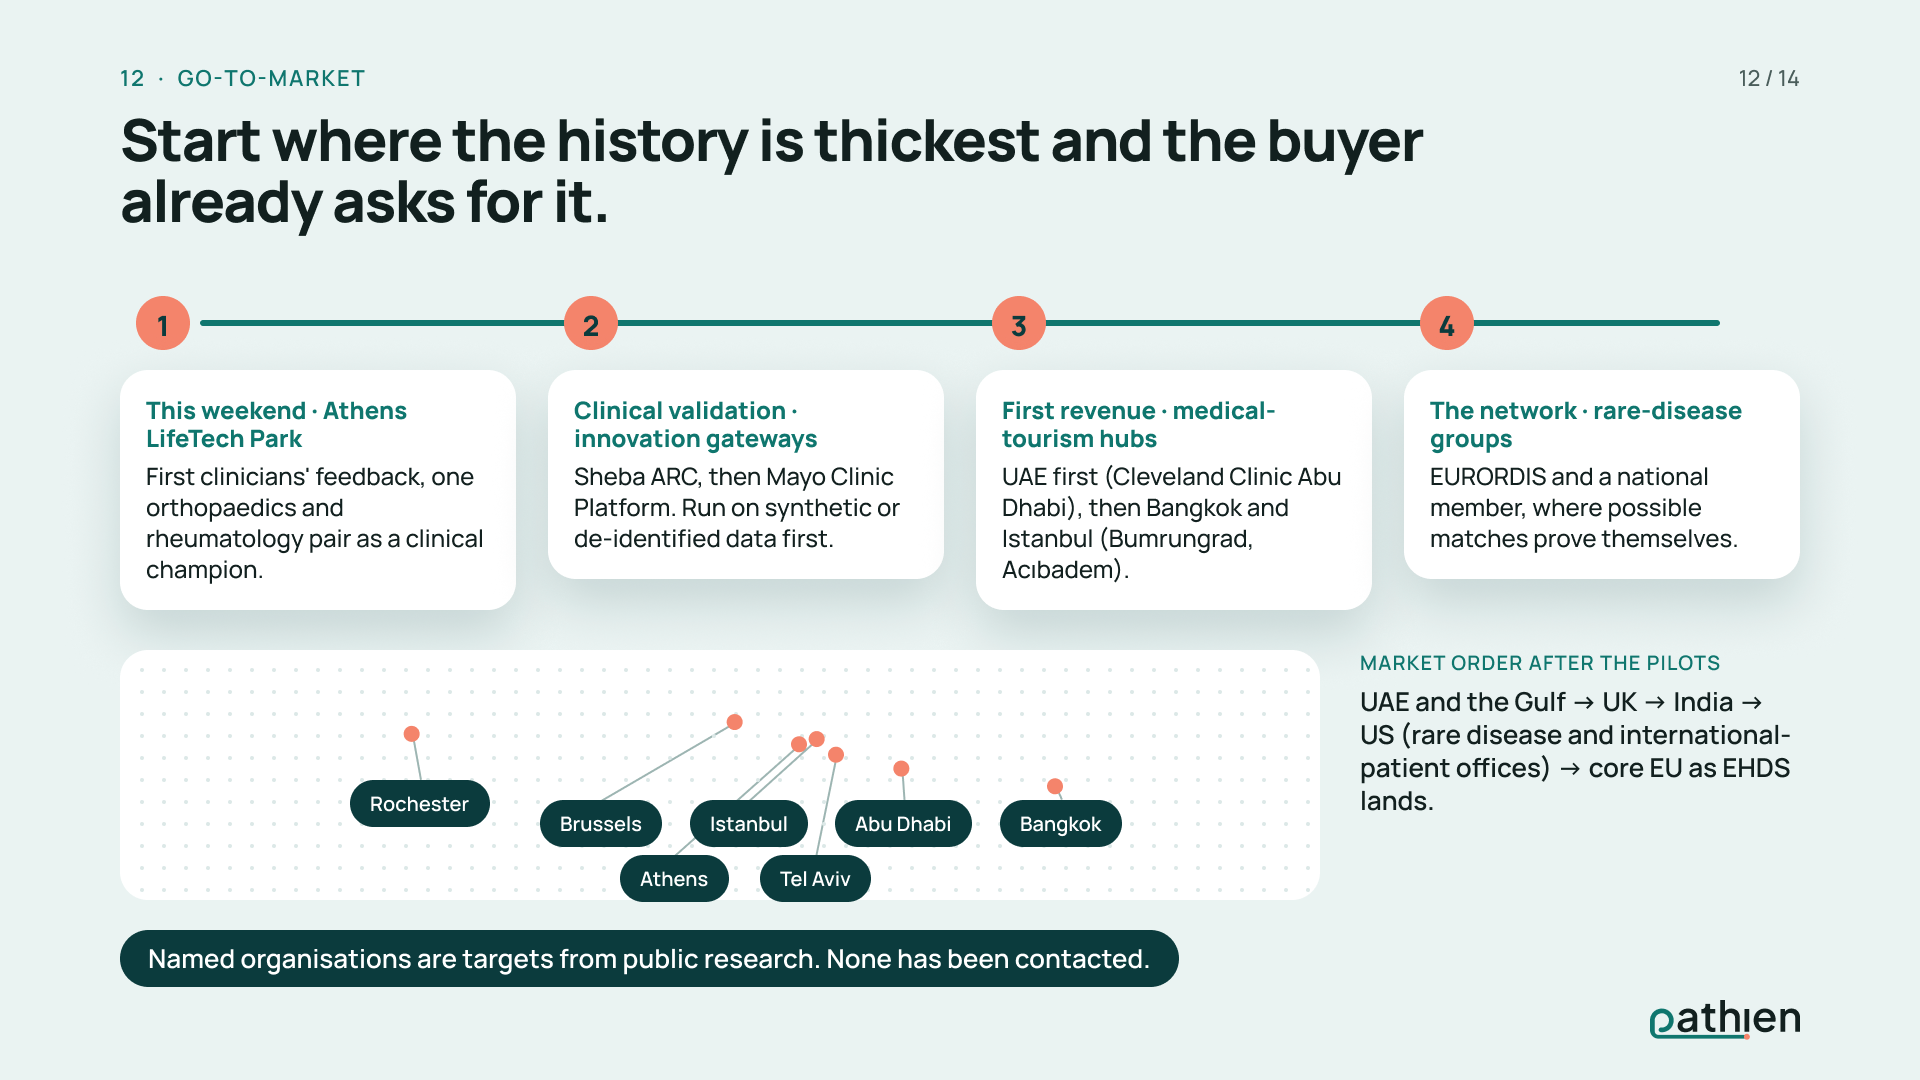
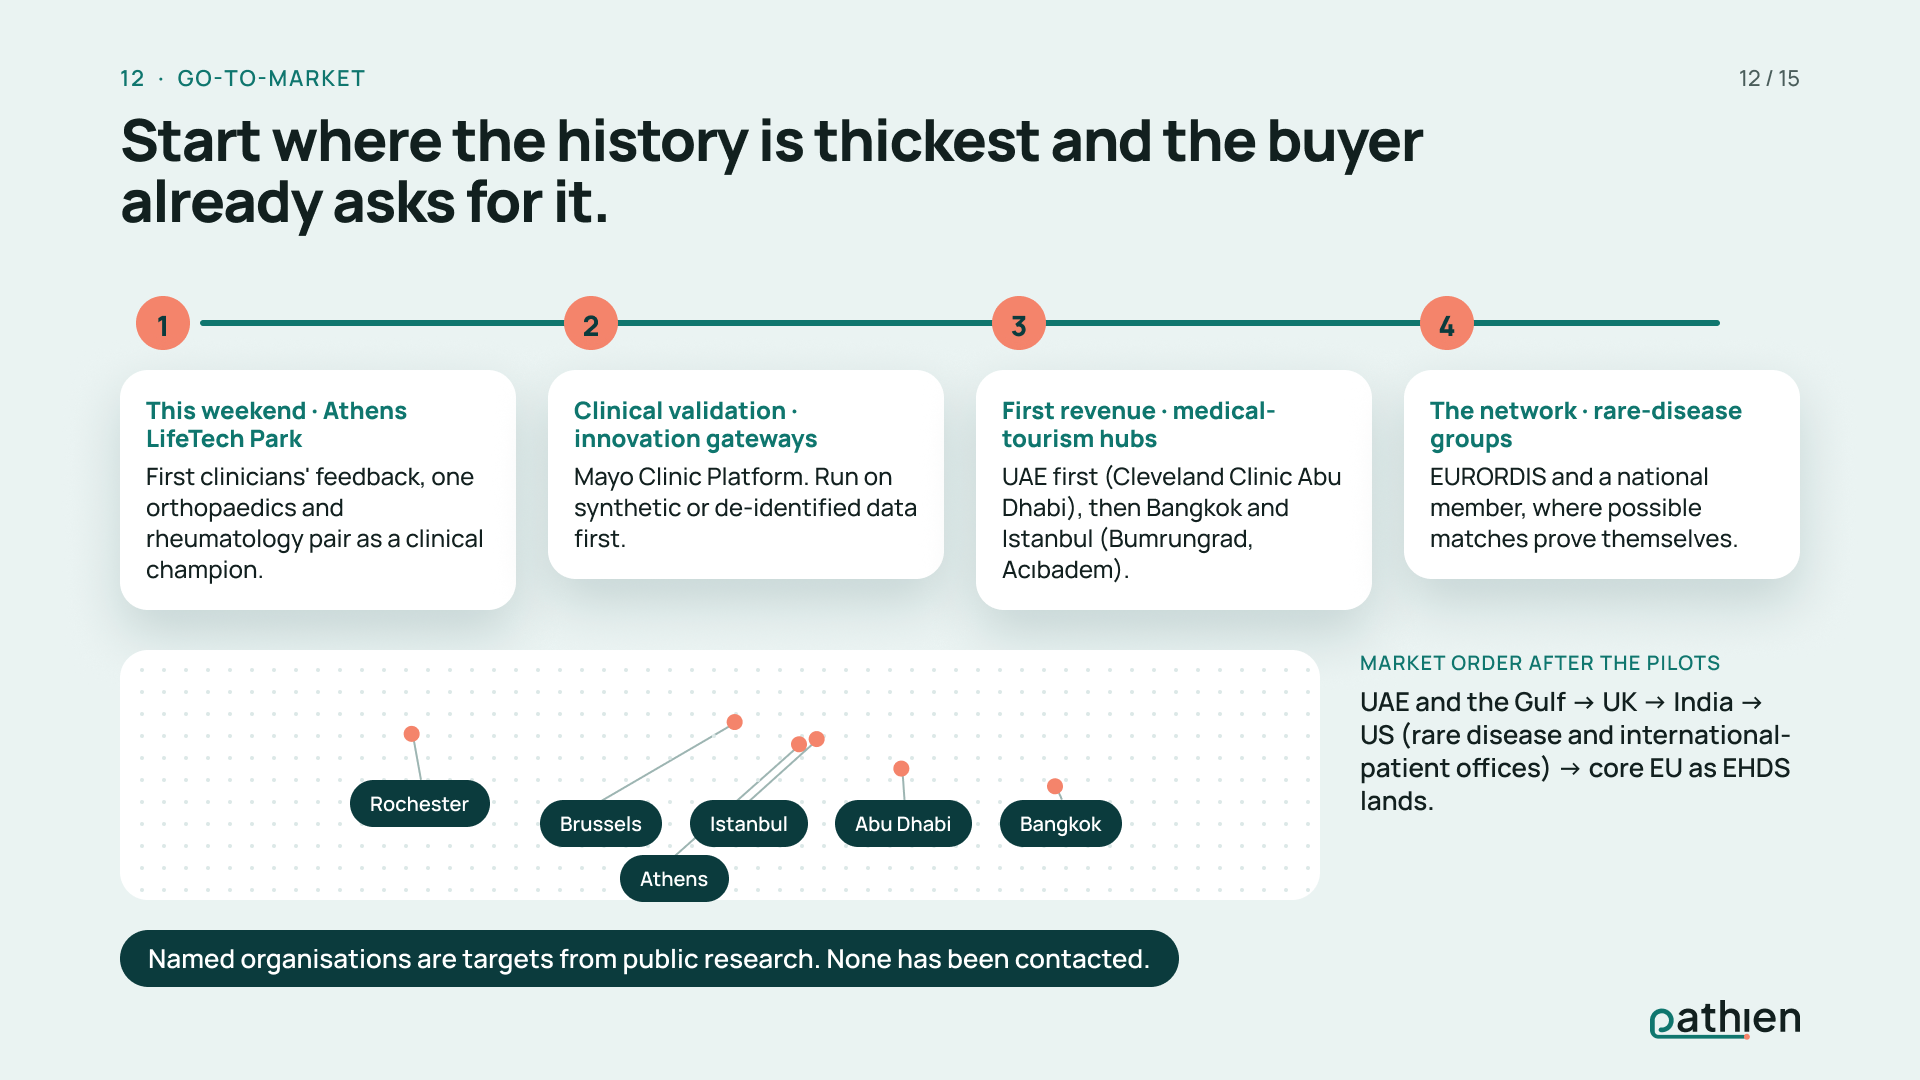
fix(deck): slide 12 without Tel Aviv and Sheba ARC (MIN-4503) [Lane A] (#81)
* fix(deck): slide 12, remove Tel Aviv and Sheba ARC

Founder, 15 Nov: "remove tel aviv for now at 12 slide". Map node and Sheba text removed, chips re-spaced; deck-content v3.7, Q25 answered.

Refs MIN-4503

* docs(deck): slide 12 Figma export re-shot without Tel Aviv

Pix's re-shot frame for v3.7: Tel Aviv node and Sheba ARC gone, step 2 reads Mayo Clinic Platform.

Refs MIN-4503

---------

Changed region(s): [[0.2812, 0.4278, 0.4688, 0.5194], [0.375, 0.7639, 0.4688, 0.8556], [0.9062, 0.0611, 0.9375, 0.0917]]

diff --git a/landing/src/deck/slides.ts b/landing/src/deck/slides.ts
@@ -43,7 +43,7 @@ const N: Record<string, string[]> = {
     "How do we earn? Not from diagnoses: we never make one. Hospitals pay for the complete history in front of their doctors. An international-patient department pays per case; a clinic chain pays per doctor seat. On our assumptions, year three is between about half a million and five million euros. Compare that with slide 8: better records could save four to seventy-five million a year on tests, in Greece alone. Our customers pay a small share of what the system saves. Every price here is an assumption, and the pilots exist to test it."
   ],
   "12": [
-    "We start where records are thickest and the buyer already wants them. This weekend, here, we look for a clinical champion. Next, an innovation gateway like Sheba's ARC to validate with clinicians. Then the first paying use: hospitals that treat patients from abroad, starting in the UAE. And the rare-disease community, where possible matches matter most. These are targets; we have not contacted anyone yet."
+    "We start where records are thickest and the buyer already wants them. This weekend, here, we look for a clinical champion. Next, an innovation gateway like Mayo Clinic Platform to validate with clinicians. Then the first paying use: hospitals that treat patients from abroad, starting in the UAE. And the rare-disease community, where possible matches matter most. These are targets; we have not contacted anyone yet."
   ],
   "13": [
     "We know where the line is. Suggesting possible causes makes software a medical device in Europe, so we sequence. First the record: it stores, finds and shares, under GDPR and HIPAA. Then the opt-in network, with the EHDS as the legal route for research. Then the doctor's assistant, certified under the MDR, with the AI Act's high-risk rules. Today's demo uses only synthetic data. That is our plan, and it is the reason a hospital can say yes to step one now."
@@ -303,18 +303,17 @@ export const slides: Slide[] = [
     headline: 'Start where the history is thickest and the buyer already asks for it.',
     steps: [
       { title: 'This weekend · Athens LifeTech Park', text: "First clinicians' feedback, one orthopaedics and rheumatology pair as a clinical champion." },
-      { title: 'Clinical validation · innovation gateways', text: 'Sheba ARC, then Mayo Clinic Platform. Run on synthetic or de-identified data first.' },
+      { title: 'Clinical validation · innovation gateways', text: 'Mayo Clinic Platform. Run on synthetic or de-identified data first.' },
       { title: 'First revenue · medical-tourism hubs', text: 'UAE first (Cleveland Clinic Abu Dhabi), then Bangkok and Istanbul (Bumrungrad, Acıbadem).' },
       { title: 'The network · rare-disease groups', text: 'EURORDIS and a national member, where possible matches prove themselves.' },
     ],
     // pins sit at their rough geographic position; chips sit in one row, west to east
     places: [
       { name: 'Rochester', x: 110, y: 60, cx: 110, cy: 205 },
-      { name: 'Brussels', x: 520, y: 62, cx: 280, cy: 205 },
-      { name: 'Athens', x: 640, y: 98, cx: 430, cy: 205 },
-      { name: 'Istanbul', x: 690, y: 80, cx: 580, cy: 205 },
-      { name: 'Tel Aviv', x: 735, y: 112, cx: 730, cy: 205 },
-      { name: 'Abu Dhabi', x: 880, y: 128, cx: 880, cy: 205 },
+      { name: 'Brussels', x: 520, y: 62, cx: 294, cy: 205 },
+      { name: 'Athens', x: 640, y: 98, cx: 478, cy: 205 },
+      { name: 'Istanbul', x: 690, y: 80, cx: 662, cy: 205 },
+      { name: 'Abu Dhabi', x: 880, y: 128, cx: 846, cy: 205 },
       { name: 'Bangkok', x: 1050, y: 150, cx: 1030, cy: 205 },
     ],
     order: { label: 'Market order after the pilots', text: 'UAE and the Gulf → UK → India → US (rare disease and international-patient offices) → core EU as EHDS lands.' },

diff --git a/docs/deck/deck-content.md b/docs/deck/deck-content.md
@@ -3,7 +3,7 @@
 | | |
 |---|---|
 | **Owner** | Anna Lytica (Marketing), MIN-4429. Deck story: CEO (MIN-4425). Design: Pix (MIN-4428), next. |
-| **Version** | **v3.6, 15 Nov 2026** (MIN-4503: slide 6b step 4 and its speaker note: the support person calls the hospital to verify the situation, not the patient; founder, verbatim: "not to verify with patient but to verify the situation with the hospital"). v3.5, 15 Nov 2026 (MIN-4503: slide 6b, the concept label and all pricing removed, and a four-step "How it's used" flow added; founder, verbatim: "6b -> concept ,not build -> remove / Pricing -> No / But add how to use / Patient abroad or at a hospital with no serious condition -> Doctor scans the code on the machine -> opens the doctor page -> one of our support team calls to verify the condition and give the doctor access"; rule 8 (concept labels) is waived for 6b by the founder; S21 and S22 unused). v3.4, 14 Nov 2026 (MIN-4462: every insurer mention removed from slides 6, 6b, 10, 11, 13 and both scripts; founder: "remove the never insurers -> not sure about this", then "Drop every insurer mention"; the internal data rule is unchanged). v3.3, 14 Nov 2026 (MIN-4503: slide 6b, the "Concept render" tag removed and the encryption point added; founder: "remove the concept render -> and mention that this device has our own encrypted software for the data so they are not in the cloud"; the eyebrow "Concept · not built" stays). v3.2, 14 Nov 2026 (MIN-4503: new slide 6b, Pathien Vault, a concept device for patients who want maximum privacy; founder: "what if someone that want's his privacy can buy our device that can hold his data. Anna and pix work on this and add one slide with a very super elegant image with our device that looks very premioum"; no other slide renumbered). v3.1, 14 Nov 2026 (MIN-4503: team and ask from the CEO plan v2, `docs/business/team-and-funding-plan.md` §7; slide 14 replaced, slide 15 new; founder: "put it in the deck when ready"). v3, 14 Nov 2026 (MIN-4503: name Pathien; new slide 11, revenue years 1 to 3, on the founder's ask "the numbers of how many money we can earn" and "Yes, update to v3"; Appendix A's SOM retired for the bottom-up line; demo slides say what is real and what is synthetic). v2, 14 Nov 2026 (MIN-4503: reframed on the founder's two points, "Dr Google" and better doctor decisions; numbers from `pitch-numbers-2026-11-14.md` and `treg-findings-2026-11-14.md`). v1, 13 Nov 2026. |
+| **Version** | **v3.7, 15 Nov 2026** (MIN-4503: slide 12, Tel Aviv and Sheba ARC removed; founder, verbatim: "remove tel aviv for now at 12 slide"). v3.6, 15 Nov 2026 (MIN-4503: slide 6b step 4 and its speaker note: the support person calls the hospital to verify the situation, not the patient; founder, verbatim: "not to verify with patient but to verify the situation with the hospital"). v3.5, 15 Nov 2026 (MIN-4503: slide 6b, the concept label and all pricing removed, and a four-step "How it's used" flow added; founder, verbatim: "6b -> concept ,not build -> remove / Pricing -> No / But add how to use / Patient abroad or at a hospital with no serious condition -> Doctor scans the code on the machine -> opens the doctor page -> one of our support team calls to verify the condition and give the doctor access"; rule 8 (concept labels) is waived for 6b by the founder; S21 and S22 unused). v3.4, 14 Nov 2026 (MIN-4462: every insurer mention removed from slides 6, 6b, 10, 11, 13 and both scripts; founder: "remove the never insurers -> not sure about this", then "Drop every insurer mention"; the internal data rule is unchanged). v3.3, 14 Nov 2026 (MIN-4503: slide 6b, the "Concept render" tag removed and the encryption point added; founder: "remove the concept render -> and mention that this device has our own encrypted software for the data so they are not in the cloud"; the eyebrow "Concept · not built" stays). v3.2, 14 Nov 2026 (MIN-4503: new slide 6b, Pathien Vault, a concept device for patients who want maximum privacy; founder: "what if someone that want's his privacy can buy our device that can hold his data. Anna and pix work on this and add one slide with a very super elegant image with our device that looks very premioum"; no other slide renumbered). v3.1, 14 Nov 2026 (MIN-4503: team and ask from the CEO plan v2, `docs/business/team-and-funding-plan.md` §7; slide 14 replaced, slide 15 new; founder: "put it in the deck when ready"). v3, 14 Nov 2026 (MIN-4503: name Pathien; new slide 11, revenue years 1 to 3, on the founder's ask "the numbers of how many money we can earn" and "Yes, update to v3"; Appendix A's SOM retired for the bottom-up line; demo slides say what is real and what is synthetic). v2, 14 Nov 2026 (MIN-4503: reframed on the founder's two points, "Dr Google" and better doctor decisions; numbers from `pitch-numbers-2026-11-14.md` and `treg-findings-2026-11-14.md`). v1, 13 Nov 2026. |
 | **Event** | Gen AI Summit Hackathon, Athens LifeTech Park, Biotech & AI track |
 | **Market** | Global. Founder: "Dont focus on the greek market. we need to focus on global market" |
 | **Sources** | Only `docs/research/` (Sales). Each number carries a source ID from the table at the end (S1 to S22; S21 and S22, added in v3.2 by Marketing as price anchors for slide 6b, are unused since v3.5, when the founder removed the price) and its status from the research: **verified**, **secondary**, or **assumption**. Nothing from the research's "Do not put on a slide" list is used. |
@@ -361,7 +361,7 @@ For questions (do not read out):
 
 **Body (pilot path; targets, nobody contacted yet):**
 1. **This weekend · Athens LifeTech Park.** First clinicians' feedback, one orthopaedics and rheumatology pair as a clinical champion.
-2. **Clinical validation · innovation gateways.** Sheba ARC, then Mayo Clinic Platform. Run on synthetic or de-identified data first.
+2. **Clinical validation · innovation gateways.** Mayo Clinic Platform. Run on synthetic or de-identified data first.
 3. **First revenue · medical-tourism hubs.** UAE first (Cleveland Clinic Abu Dhabi), then Bangkok and Istanbul (Bumrungrad, Acıbadem).
 4. **The network · rare-disease groups.** EURORDIS and a national member, where possible matches prove themselves.
 
@@ -369,11 +369,11 @@ Market order after the pilots: UAE and the Gulf → UK → India → US (rare di
 
 Footer, required: Named organisations are targets from public research. None has been contacted.
 
-**Visual note for Pix:** A left-to-right path of four stops with a small world map underneath (Athens, Tel Aviv / Rochester, Abu Dhabi, Bangkok, Istanbul, Brussels). Footer line in the same size as body text, not fine print.
+**Visual note for Pix:** A left-to-right path of four stops with a small world map underneath (Athens, Rochester, Abu Dhabi, Bangkok, Istanbul, Brussels). Footer line in the same size as body text, not fine print.
 
-**Speaker notes (~30 s):** "We start where records are thickest and the buyer already wants them. This weekend, here, we look for a clinical champion. Next, an innovation gateway like Sheba's ARC to validate with clinicians. Then the first paying use: hospitals that treat patients from abroad, starting in the UAE. And the rare-disease community, where possible matches matter most. These are targets; we have not contacted anyone yet."
+**Speaker notes (~30 s):** "We start where records are thickest and the buyer already wants them. This weekend, here, we look for a clinical champion. Next, an innovation gateway like Mayo Clinic Platform to validate with clinicians. Then the first paying use: hospitals that treat patients from abroad, starting in the UAE. And the rare-disease community, where possible matches matter most. These are targets; we have not contacted anyone yet."
 
-**Sources:** `buyers.md` §4 (pilots); `market-and-competitors.md` §5 (market order). **Check before stage:** Sales flags that Sheba ARC was reportedly being sold to Redesign Health (buyers.md, target 35). If confirmed, say "an innovation gateway such as Mayo Clinic Platform" instead (PRD Q25).
+**Sources:** `buyers.md` §4 (pilots); `market-and-competitors.md` §5 (market order). The Sheba ARC "check before stage" note is moot: the founder removed Sheba and Tel Aviv from slide 12 on 15 Nov (PRD Q25).
 
 ---
 
@@ -538,7 +538,7 @@ The v2 name proposals (Anamna, Strand, Histra) are retired; their reasoning stay
 |---|---|---|
 | Q23 | **Answered** by `docs/submission/project-details.md` (S20): signed log and time-limited access run for real; the key sits on our server in the demo. Slides 5 and 6 updated. | Backend, CTO |
 | Q24 | **Answered for revenue** (founder, 14 Nov, verbatim: "the numbers of how many money we can earn based on good diagnoses?", then "Yes, update to v3"). The revenue line is on the main deck (slide 11), framed per case and per seat, never per diagnosis. SOM retired; TAM and SAM stay in Appendix A as a ceiling, for questions only. Open: whether Appendix A is shown at all. | Founder (revenue); CEO, with Sales (Appendix A) |
-| Q25 | Sheba ARC's reported sale: confirm before slide 12 names it. | Sales |
+| Q25 | **Answered in v3.7** (founder, 15 Nov: "remove tel aviv for now at 12 slide"). Sheba ARC and Tel Aviv are removed from slide 12; Mayo Clinic Platform stays as the gateway. | Founder |
 | Q26 | **Answered in v3.1** by the CEO plan v2 and the founder's "put it in the deck when ready": slide 13 stays the closing content slide; team and ask follow as slides 14 and 15. | CEO, founder |
 | Q27 | **Answered in v3.1** (founder, 14 Nov: "Just me Lefteris Georgaras (founder of onedotatatime.design studio)"; CEO plan v2: €600k over 18 months, two tranches). Open: the founder approves the amount and the public wording before the pitch. | Founder, through the CEO |
 | Q29 | **Answered** (founder, 14 Nov, verbatim: "Route to the doctor"). Patient-side offer: log the symptom, send it to the doctor, who sees it with the full history. No interpretation, urgency score or causes; fixed 112 line only. Slide 4 updated. | Founder |
